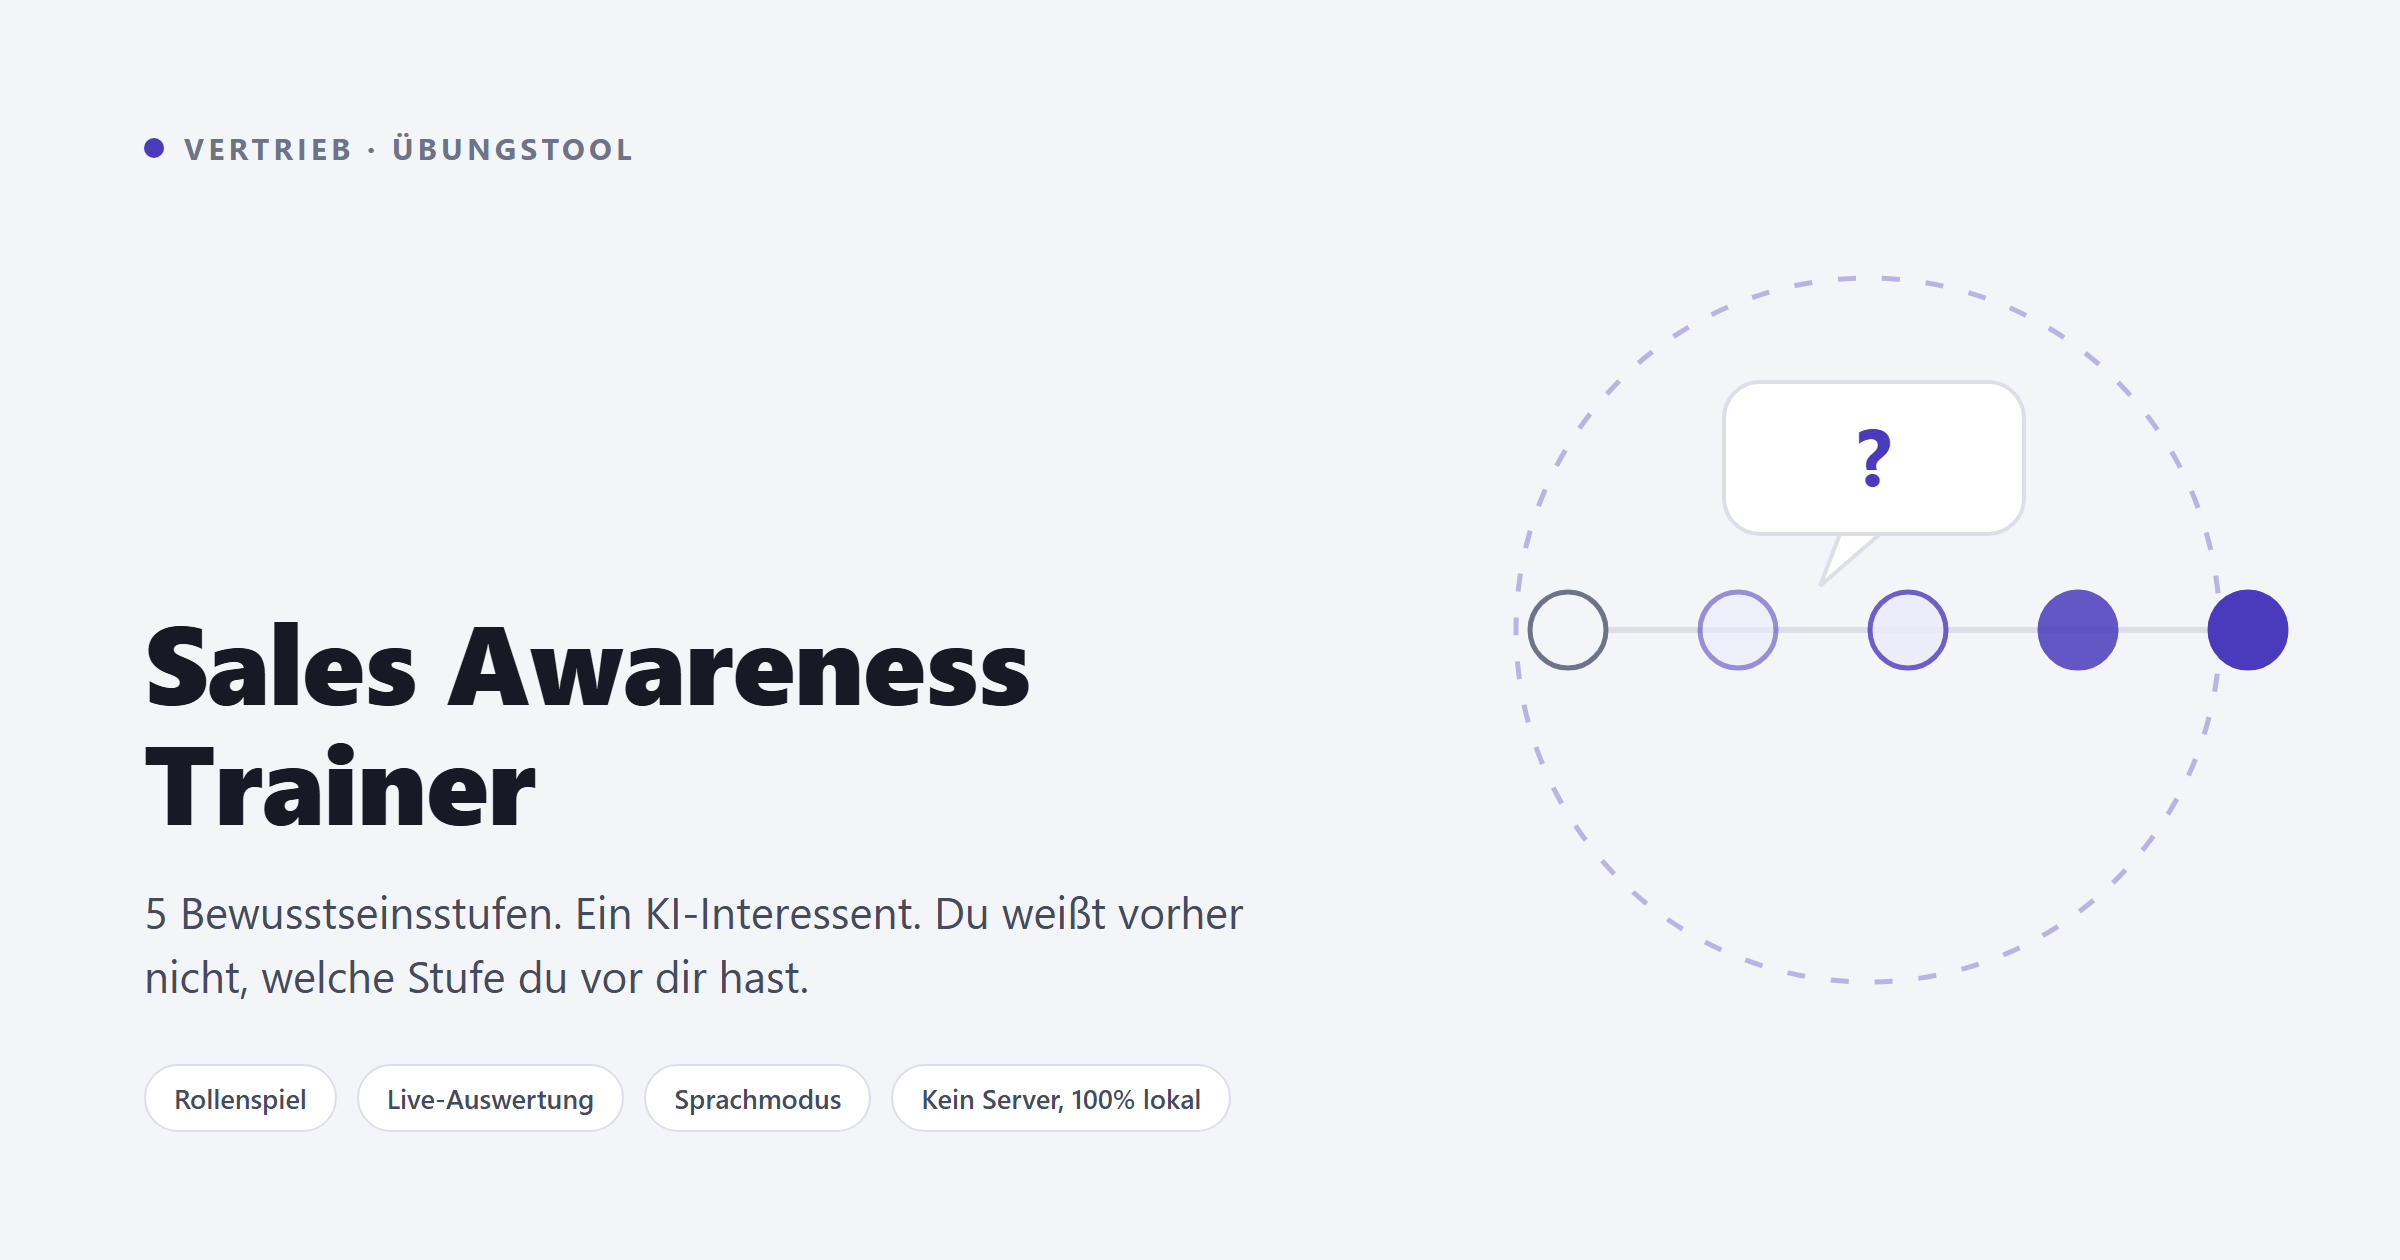
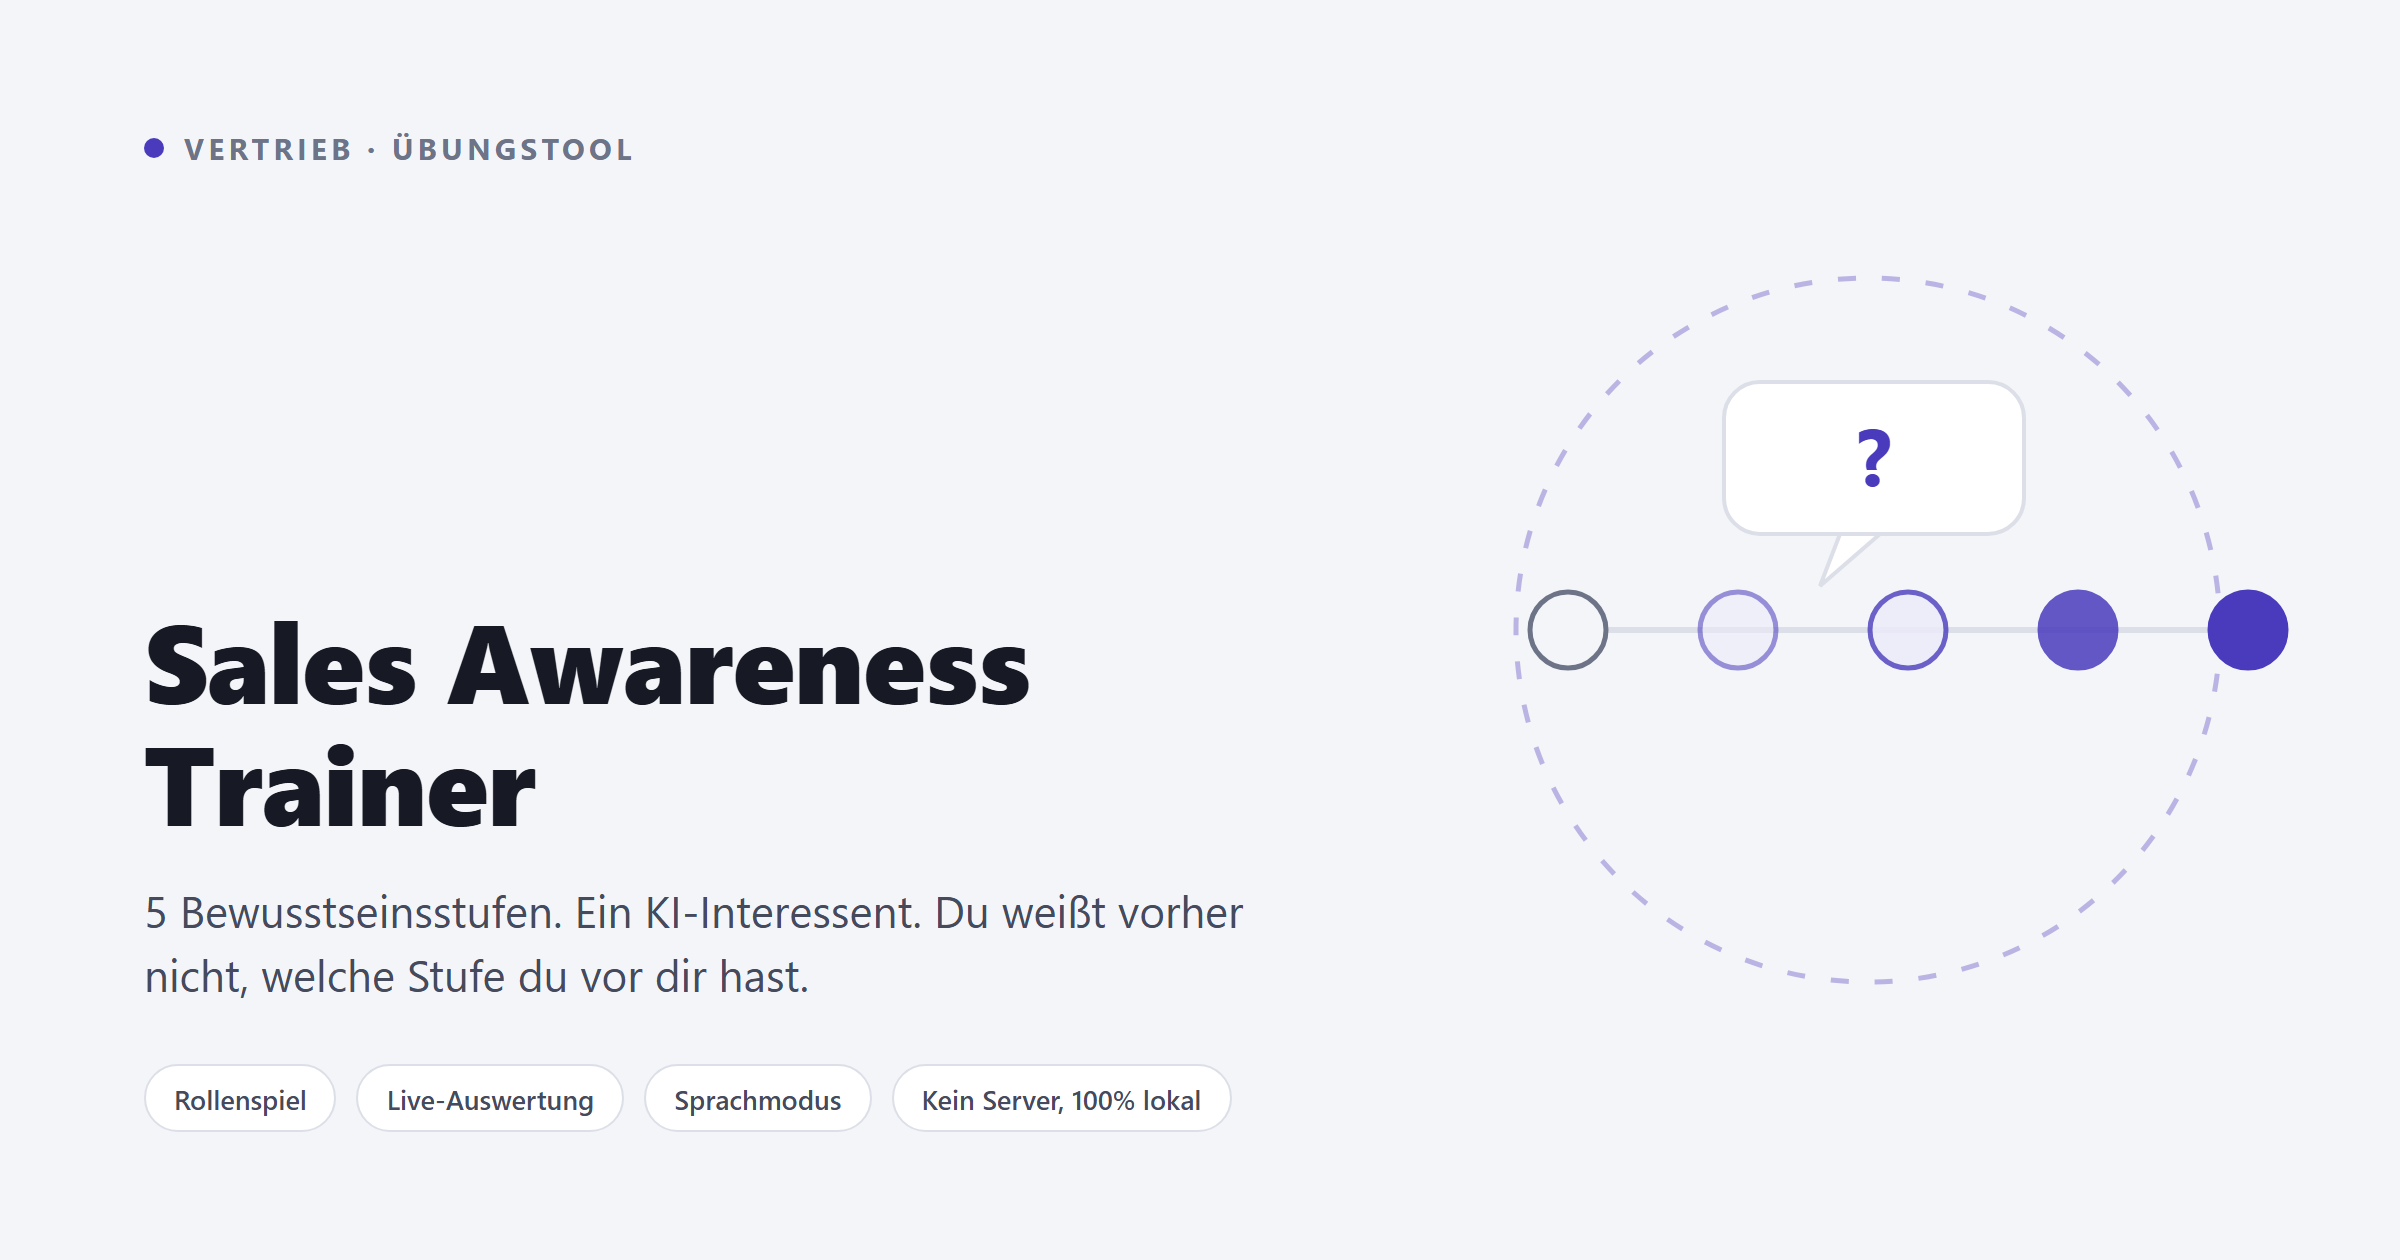
feat: add English cover image and English quick start screenshots
Adds assets/cover-en.png and English-language screenshots
(screenshot-*-en.png), generated with the app's real EN toggle and a
translated example conversation, so the English README section no longer
reuses German-language screenshots. generate.mjs now renders both
language variants and explicitly re-selects the language per shot, since
the DE/EN preference persists in localStorage across navigations to the
same file:// origin.

diff --git a/assets/cover-src-en.html b/assets/cover-src-en.html
@@ -1,0 +1,59 @@
+<!doctype html>
+<html lang="en"><head><meta charset="utf-8"><style>
+  *{margin:0;padding:0;box-sizing:border-box}
+  :root{
+    --ground:#f4f5f8; --ink:#171a24; --ink-2:#454b5c; --ink-3:#6d7488;
+    --line:#dcdfe8; --accent:#4a3bbd; --accent-soft:#ecebfa; --surface:#ffffff;
+  }
+  html,body{width:1200px;height:630px}
+  body{font-family:"Segoe UI",Arial,sans-serif;color:var(--ink);
+    background:var(--ground);position:relative;overflow:hidden}
+  .frame{position:absolute;inset:0;padding:64px 72px;display:flex;flex-direction:column;justify-content:space-between}
+  .top{display:flex;align-items:center;gap:10px}
+  .dot{width:10px;height:10px;border-radius:50%;background:var(--accent)}
+  .kicker{font-weight:700;letter-spacing:.14em;font-size:15px;color:var(--ink-3);text-transform:uppercase}
+  .hl{max-width:660px;margin-top:36px}
+  .hl .title{font-size:56px;line-height:1.08;font-weight:800;letter-spacing:-.01em;color:var(--ink)}
+  .hl .sub{margin-top:20px;font-size:22px;line-height:1.45;font-weight:400;color:var(--ink-2);max-width:600px}
+  .badges{display:flex;gap:10px;flex-wrap:wrap;margin-top:28px}
+  .badge{font-size:13.5px;font-weight:600;color:var(--ink-2);background:var(--surface);border:1px solid var(--line);border-radius:99px;padding:7px 14px}
+  .art{position:absolute;right:46px;top:50%;width:440px;height:440px;transform:translateY(-50%)}
+</style></head>
+<body>
+  <div class="frame">
+    <div class="top">
+      <div class="dot"></div>
+      <div class="kicker">Sales &middot; Training Tool</div>
+    </div>
+
+    <div class="hl">
+      <div class="title">Sales Awareness<br>Trainer</div>
+      <div class="sub">5 stages of awareness. One AI prospect. You don&rsquo;t know beforehand which stage you&rsquo;re facing.</div>
+      <div class="badges">
+        <div class="badge">Roleplay</div>
+        <div class="badge">Live evaluation</div>
+        <div class="badge">Voice mode</div>
+        <div class="badge">No server, 100% local</div>
+      </div>
+    </div>
+  </div>
+
+  <svg class="art" viewBox="0 0 440 440" fill="none" aria-hidden="true">
+    <circle cx="220" cy="220" r="176" stroke="#4a3bbd" stroke-width="2.5" stroke-dasharray="9 13" opacity="0.35"/>
+    <!-- 5-stage progress: from unaware (empty) to ready to decide (full) -->
+    <g transform="translate(50,220)">
+      <line x1="20" y1="0" x2="340" y2="0" stroke="#dcdfe8" stroke-width="3"/>
+      <circle cx="20" cy="0" r="19" fill="#f4f5f8" stroke="#6d7488" stroke-width="2.5"/>
+      <circle cx="105" cy="0" r="19" fill="#ecebfa" stroke="#4a3bbd" stroke-width="2.5" opacity="0.55"/>
+      <circle cx="190" cy="0" r="19" fill="#ecebfa" stroke="#4a3bbd" stroke-width="2.5" opacity="0.8"/>
+      <circle cx="275" cy="0" r="19" fill="#4a3bbd" stroke="#4a3bbd" stroke-width="2.5" opacity="0.85"/>
+      <circle cx="360" cy="0" r="19" fill="#4a3bbd" stroke="#4a3bbd" stroke-width="2.5"/>
+    </g>
+    <!-- speech bubble with a question mark above the row: which stage is it, really? -->
+    <g transform="translate(148,96)">
+      <rect x="0" y="0" width="150" height="76" rx="18" fill="#ffffff" stroke="#dcdfe8" stroke-width="2"/>
+      <path d="M58 76l-10 26 30-26z" fill="#ffffff" stroke="#dcdfe8" stroke-width="2"/>
+      <text x="75" y="52" font-size="40" font-weight="700" fill="#4a3bbd" text-anchor="middle" font-family="Segoe UI, Arial, sans-serif">?</text>
+    </g>
+  </svg>
+</body></html>

diff --git a/README.md b/README.md
@@ -69,6 +69,8 @@ Anbieter dieses Repositories: Falko Guderian. Impressum: [falkoguderian.github.i
 
 ## English
 
+![Sales Awareness Trainer](assets/cover-en.png)
+
 ### What is this?
 
 A training tool for sales conversations: you practice against an AI-simulated prospect who is randomly (or deliberately) placed at one of 5 stages of awareness — unaware, problem-aware, solution-aware, product-aware, or ready to decide. The stage is not revealed to you beforehand. Your task: find out through questions where your counterpart stands, instead of pitching.
@@ -78,9 +80,9 @@ After the conversation, the same AI evaluates your call against a guide (talk sh
 ### Quick Start
 
 <p align="center">
-  <img src="assets/screenshot-start.png" width="31%" alt="Start screen: configure and start a conversation">
-  <img src="assets/screenshot-chat.png" width="31%" alt="Live conversation with the simulated prospect">
-  <img src="assets/screenshot-result.png" width="31%" alt="Evaluation after the conversation">
+  <img src="assets/screenshot-start-en.png" width="31%" alt="Start screen: configure and start a conversation">
+  <img src="assets/screenshot-chat-en.png" width="31%" alt="Live conversation with the simulated prospect">
+  <img src="assets/screenshot-result-en.png" width="31%" alt="Evaluation after the conversation">
 </p>
 
 1. Open `index.html` in your browser (or host it via GitHub Pages) — no server, no build, no install.
